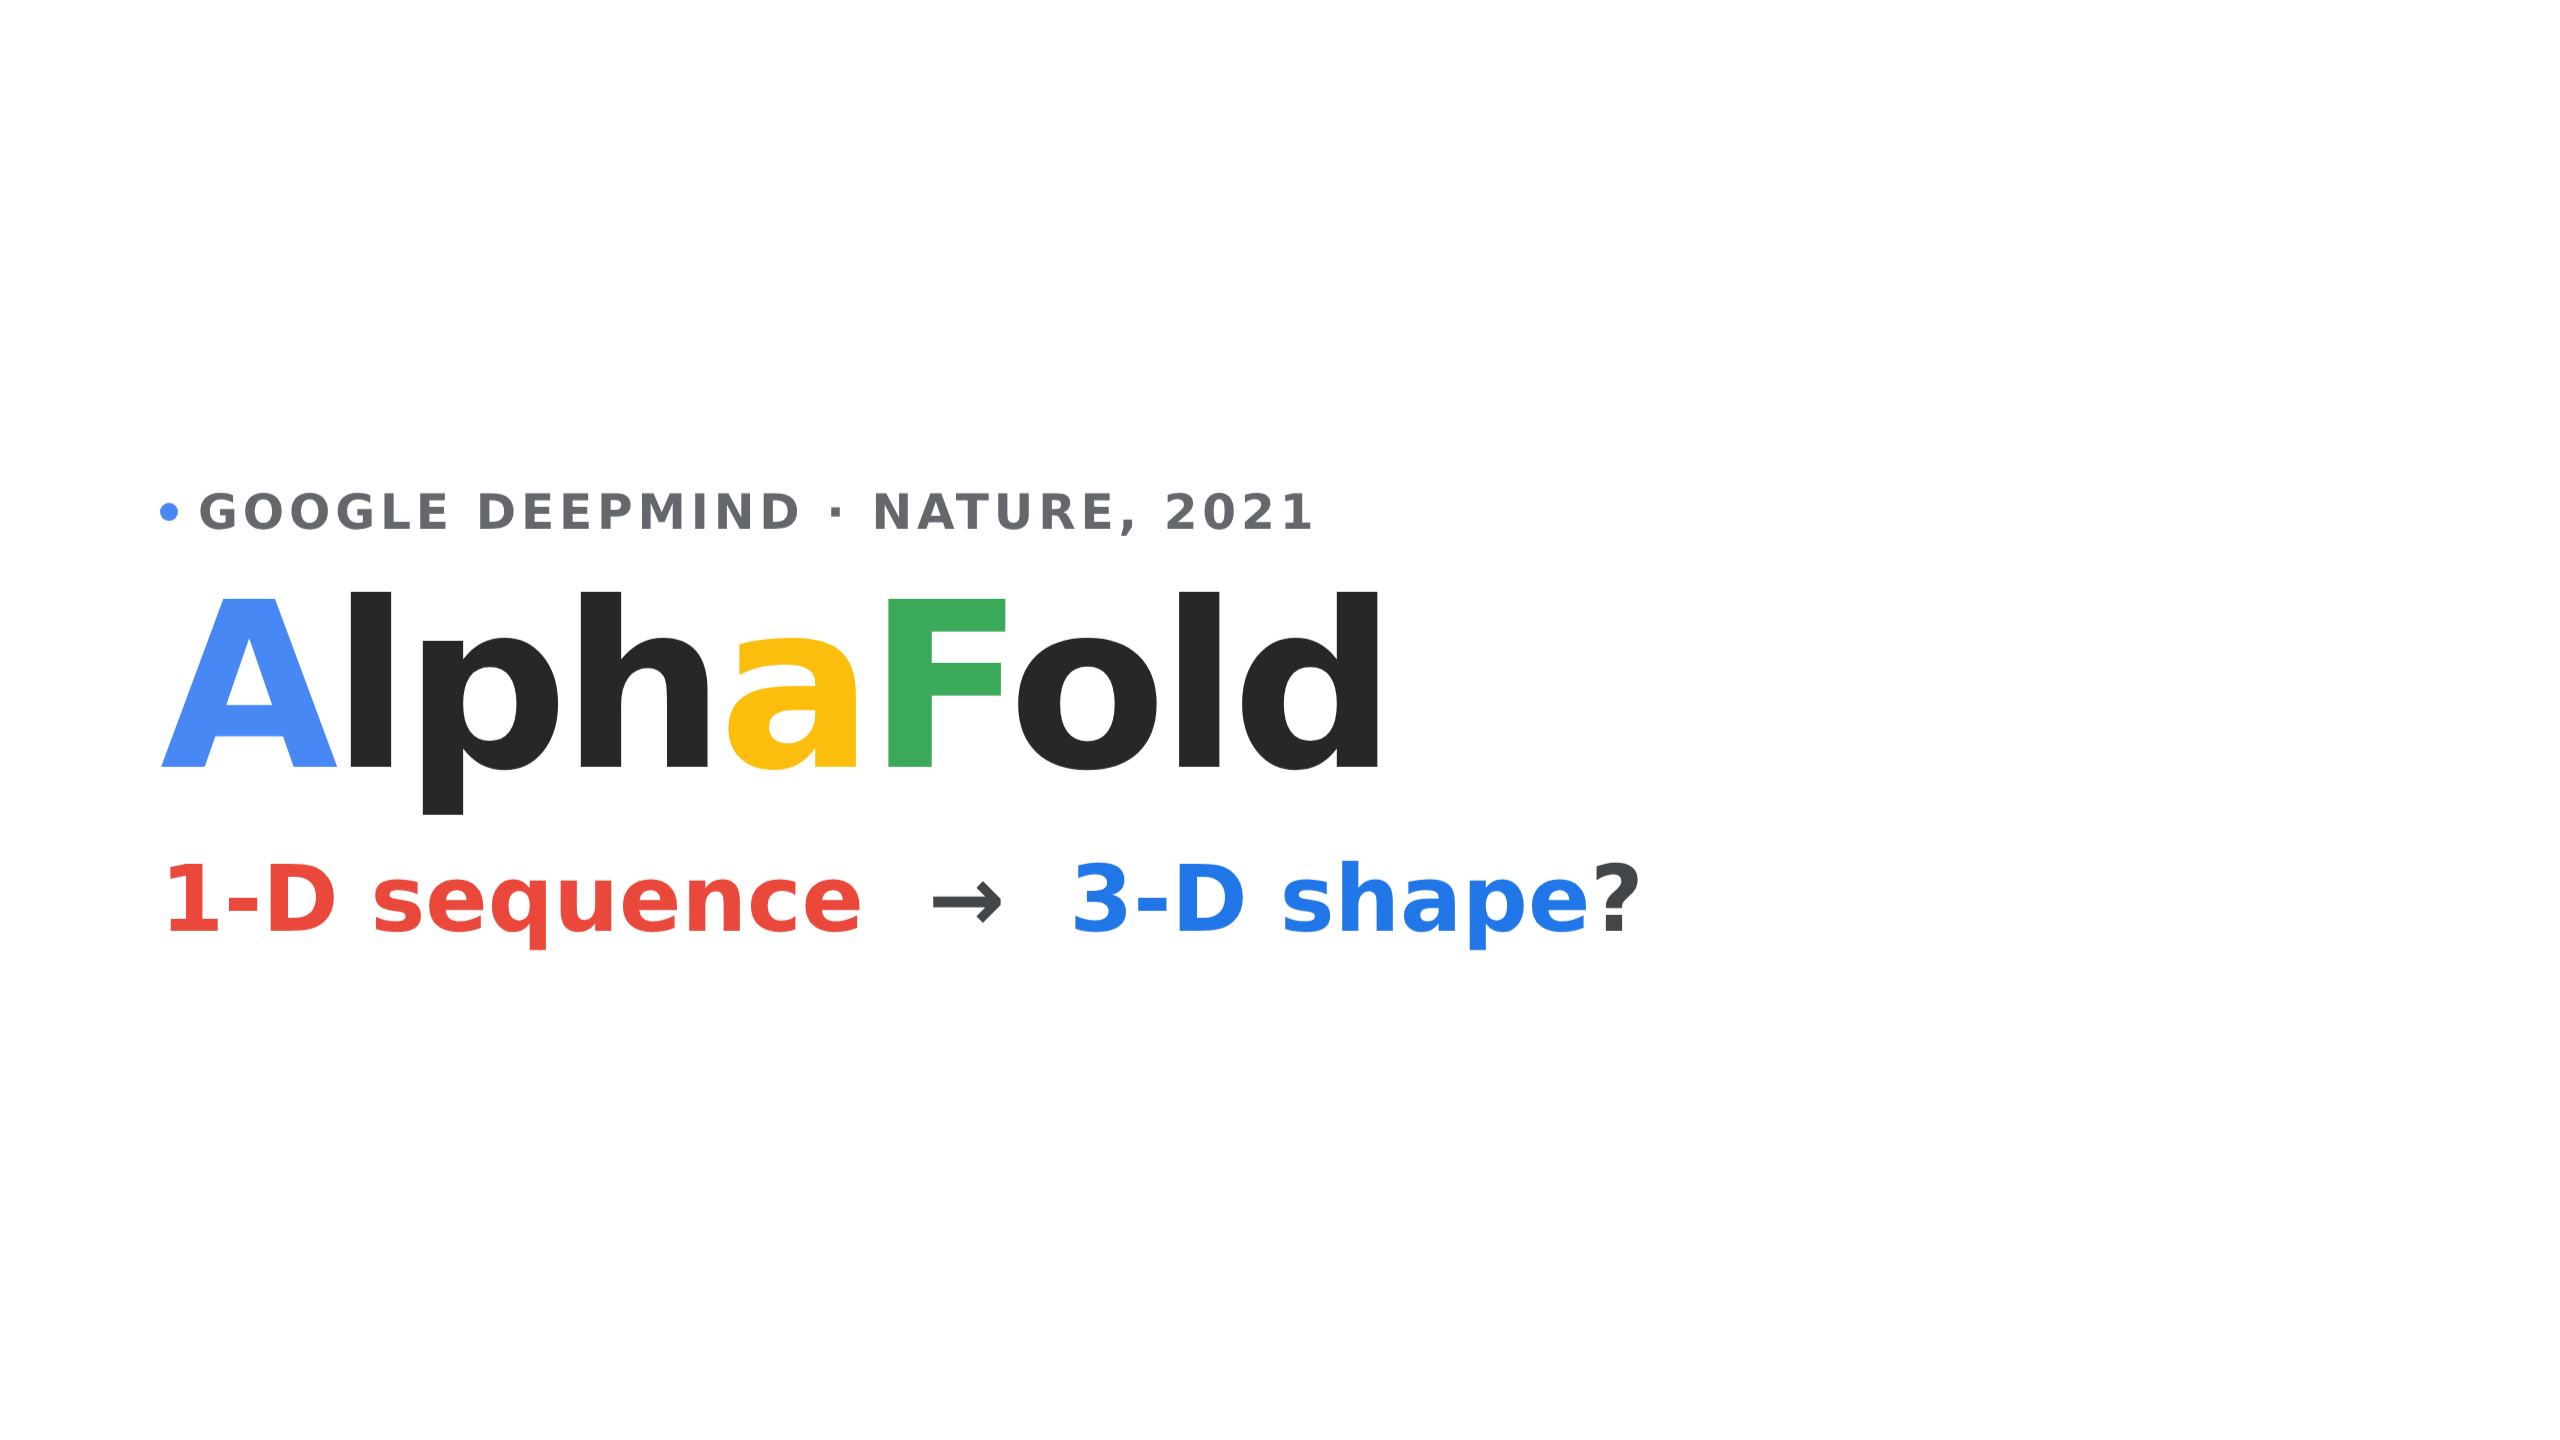
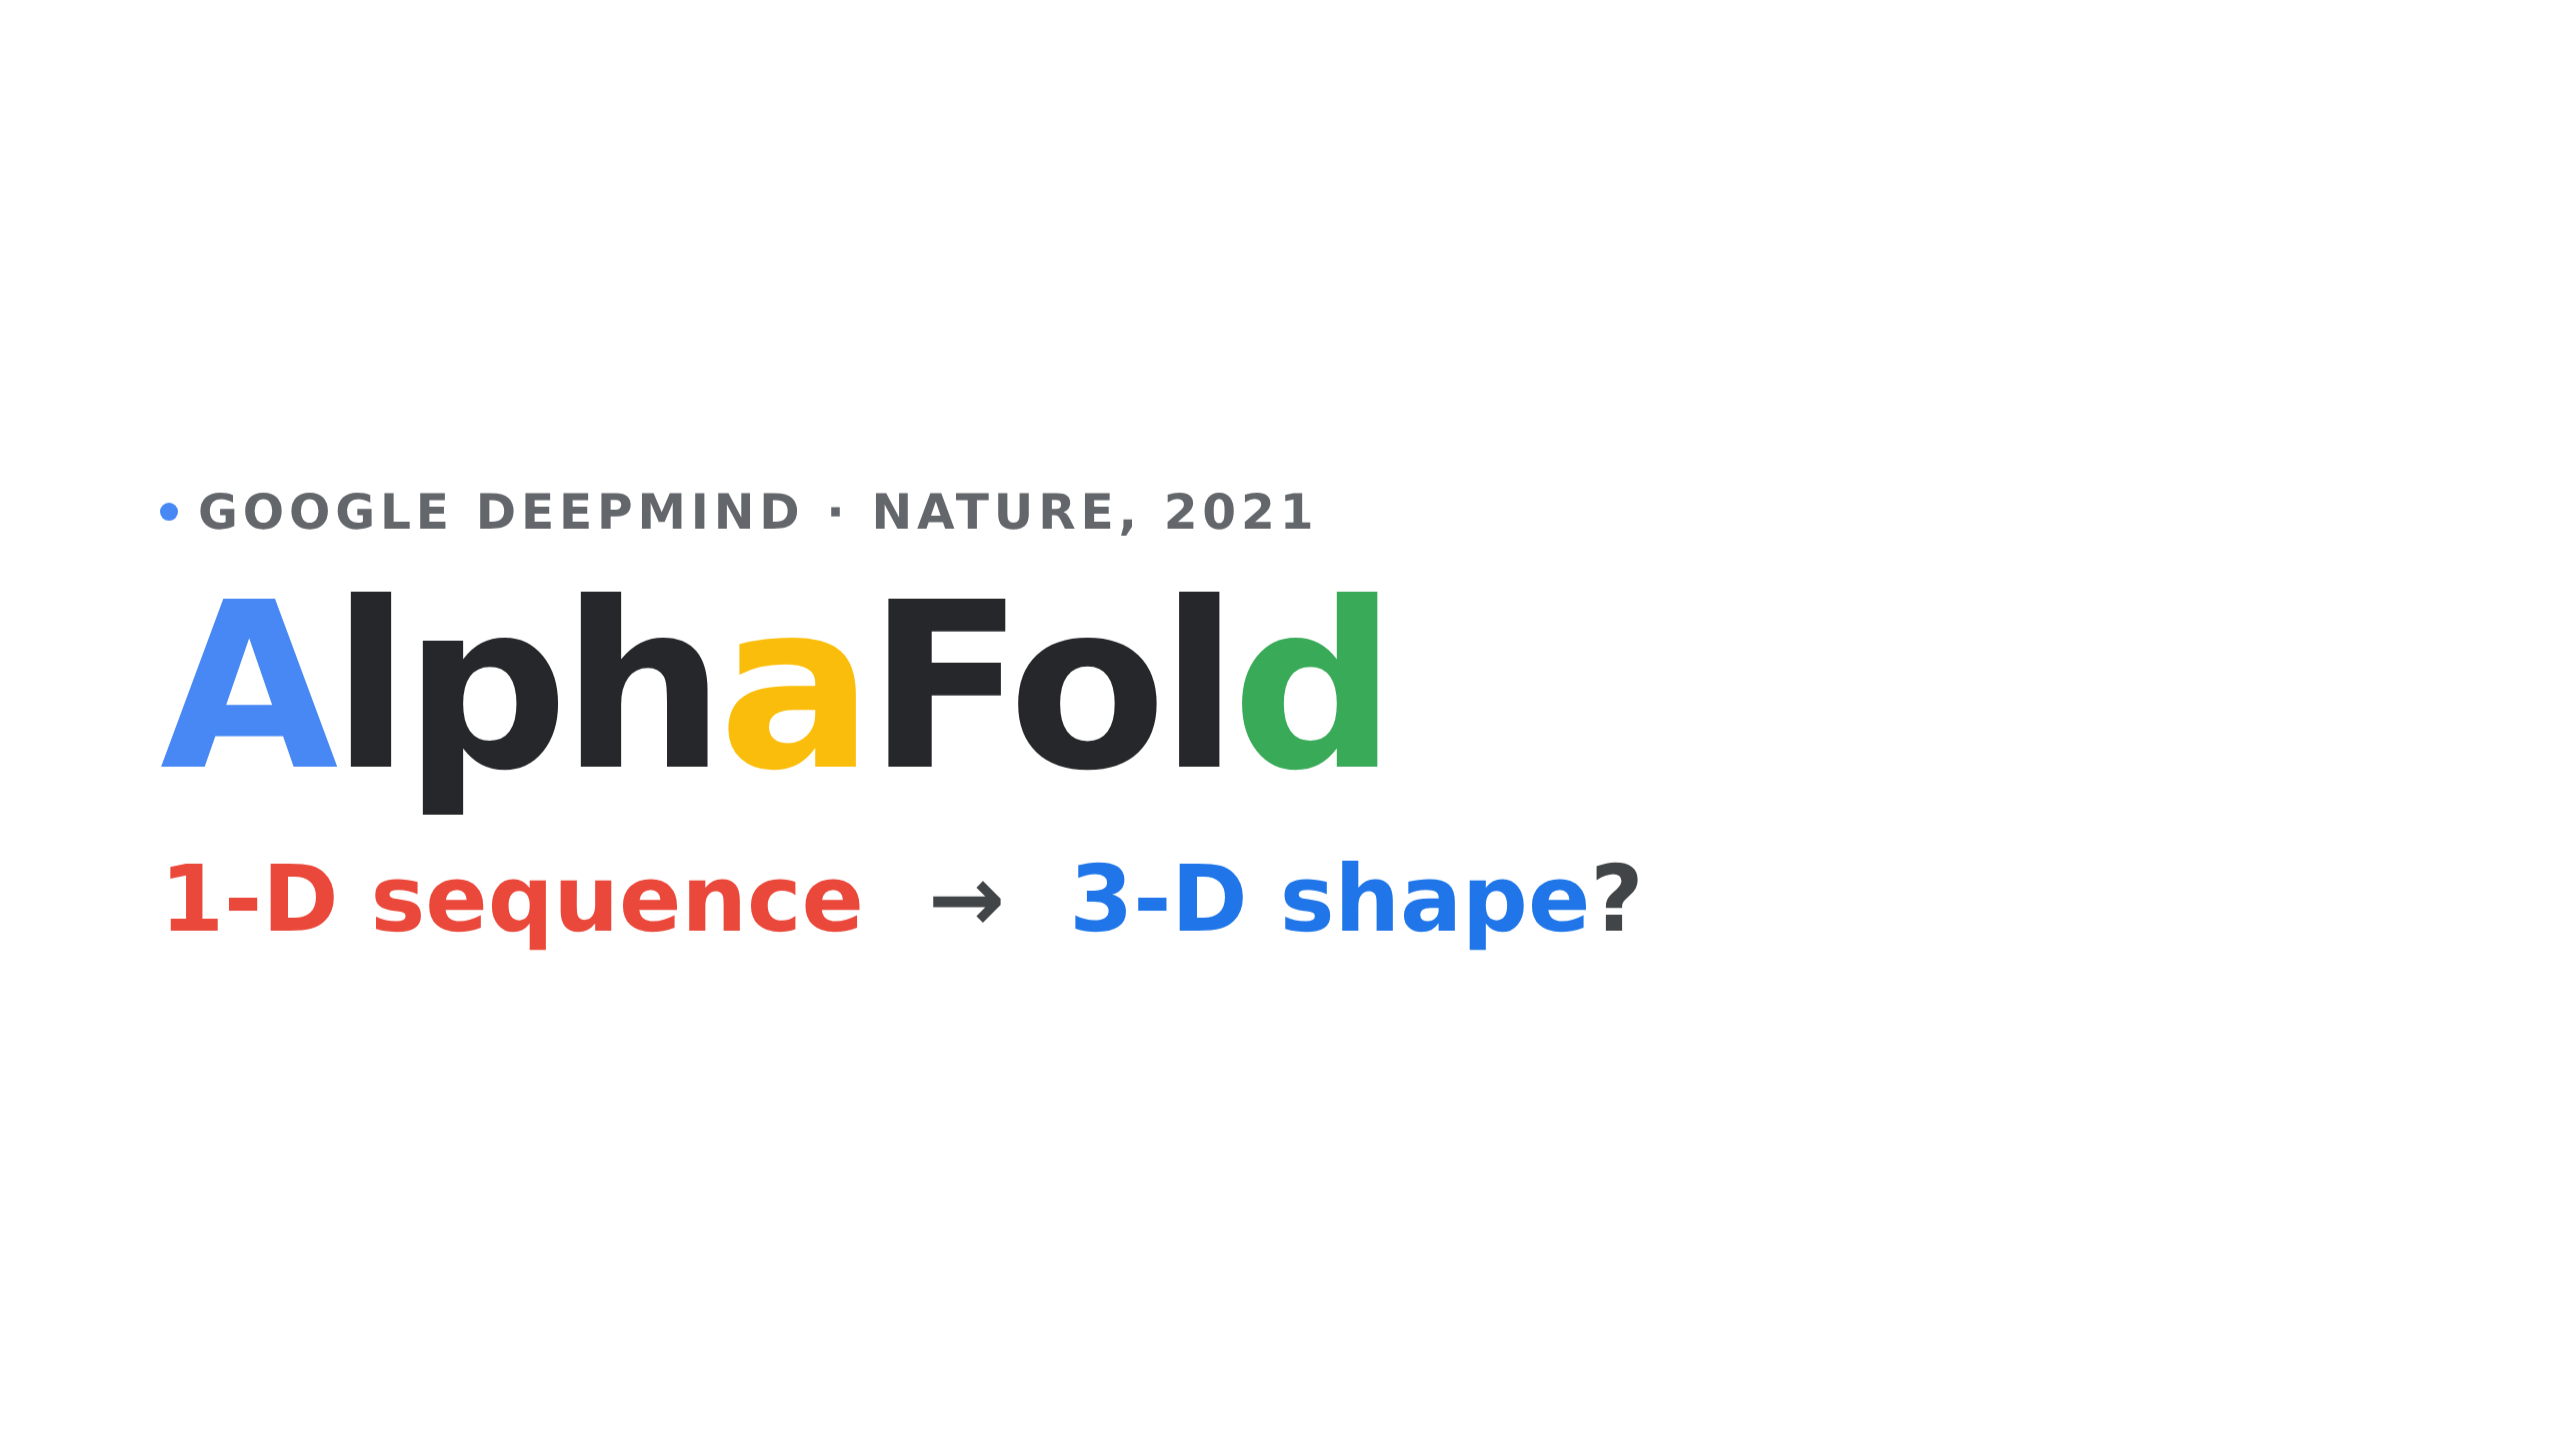
Space wordmark accents evenly for balance
Distribute the three accents across the word (A blue, a yellow, d green)
instead of clumping yellow and green mid-word.

Claude-Session: https://claude.ai/code/session_01Bs5QxwcQxX81M5Q77HARNf

Changed region(s): [[0.4688, 0.4062, 0.5625, 0.5312], [0.3438, 0.4062, 0.4062, 0.5312]]

diff --git a/presentation/alphafold.html b/presentation/alphafold.html
@@ -122,12 +122,12 @@
   /* ---------- title fold ---------- */
   .title-wrap { display:flex; flex-direction:column; gap: clamp(18px,3vh,30px); }
   .wordmark { font-weight:700; letter-spacing:-.03em; }
-  /* calmer wordmark: mostly ink with three Google accents (A blue, a yellow, F green) */
+  /* calmer wordmark: ink base with three Google accents evenly spaced (A blue · a yellow · d green) */
   .wordmark .a1{color:var(--g-blue);} .wordmark .a2{color:var(--ink);}
   .wordmark .a3{color:var(--ink);} .wordmark .a4{color:var(--ink);}
-  .wordmark .a5{color:var(--g-yellow);} .wordmark .a6{color:var(--g-green);}
+  .wordmark .a5{color:var(--g-yellow);} .wordmark .a6{color:var(--ink);}
   .wordmark .a7{color:var(--ink);} .wordmark .a8{color:var(--ink);}
-  .wordmark .a9{color:var(--ink);}
+  .wordmark .a9{color:var(--g-green);}
 
   /* ---------- stat ---------- */
   .stat-row { display:flex; flex-wrap:wrap; gap: clamp(20px,4vw,52px); }
